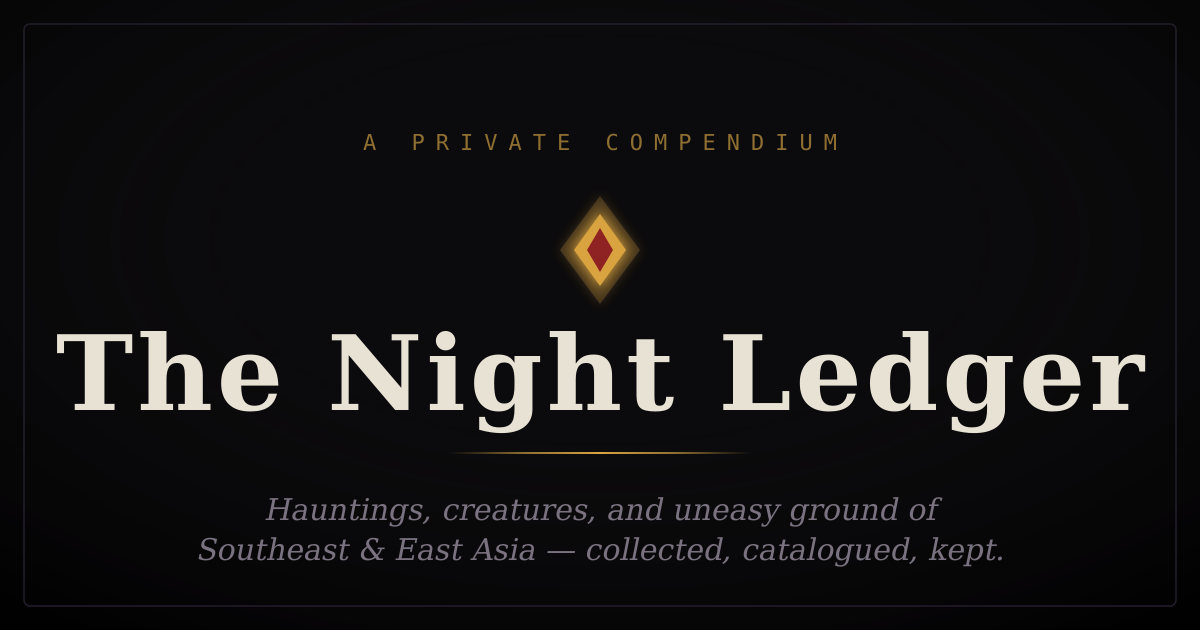
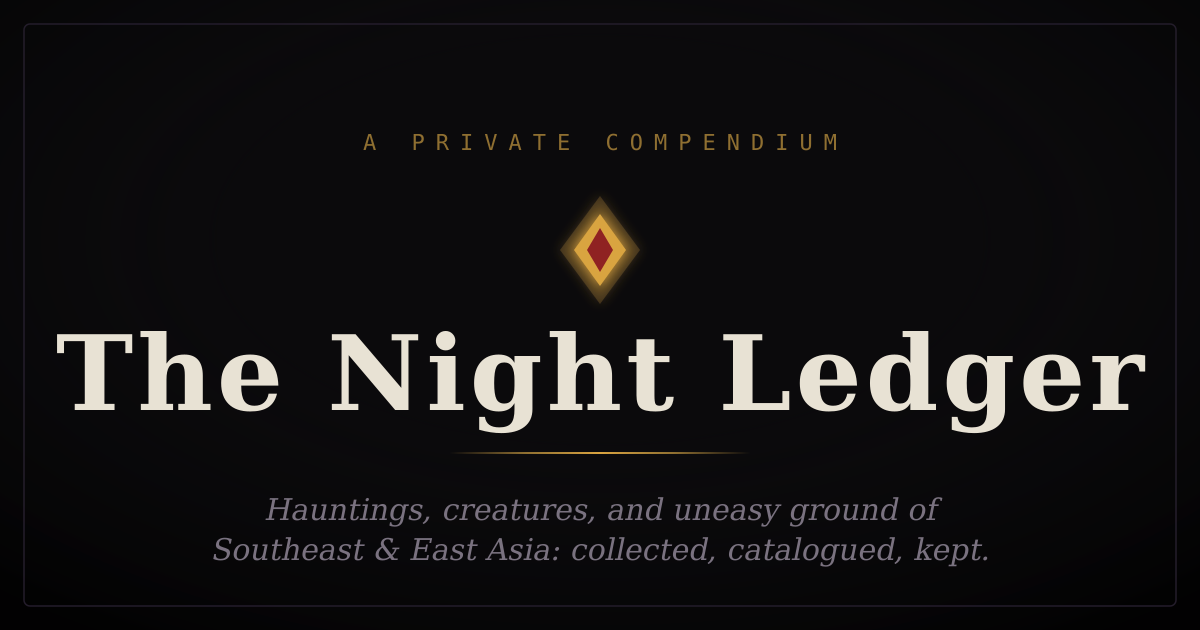
content: expand to 22 entries, add Apocrypha section, purge em-dashes
- Expand all 9 existing entries to fuller 3-paragraph retellings.
- Add 9 new real-folklore entries: Mae Nak, Krasue, Aswang, Kuchisake-onna,
  Churel, Hantu Tetek (bestiary) + Istana Woodneuk, Old Ford Factory,
  Bukit Brown (haunted Singapore).
- Add a new 'Apocrypha' section of 4 original, clearly-labelled fictional
  modern-SG legends (build.js gains optional per-section intro support).
- Remove every em-dash and en-dash from all shipped text (stories, masthead,
  legend, head metadata, OG card, nav); recast with commas/colons/semicolons.
- Expand _TEMPLATE.json; regenerate og-image.png.

Changed region(s): [[0.1542, 0.8444, 0.8325, 0.9048]]

diff --git a/build.js b/build.js
@@ -1,11 +1,11 @@
 #!/usr/bin/env node
 /*
- * The Night Ledger — static site build.
+ * The Night Ledger static site build.
  * Reads site.json + every stories/*.json and renders a self-contained dist/.
  * Zero dependencies. Run:  node build.js   (output: dist/)
  *
  * To add a story: drop one stories/<CODE>.json file and push.
- * The GitHub Action rebuilds and deploys — no manual regenerate.
+ * The GitHub Action rebuilds and deploys; no manual regenerate.
  * The entry markup pattern is owned here so content stays a pure-data drop-in.
  */
 'use strict';
@@ -21,7 +21,7 @@ const site = JSON.parse(fs.readFileSync(path.join(ROOT, 'site.json'), 'utf8'));
 let template = fs.readFileSync(path.join(ROOT, 'src', 'template.html'), 'utf8');
 
 // --- load the library of contained stories ---------------------------------
-// Files starting with "_" are scratch/template files — never rendered.
+// Files starting with "_" are scratch/template files, never rendered.
 const storyFiles = fs.readdirSync(STORIES_DIR).filter((f) => f.endsWith('.json') && !f.startsWith('_'));
 const stories = storyFiles.map((f) => {
   try {
@@ -103,7 +103,7 @@ for (const sec of site.sections) {
   </div>
   <div class="section-rule"></div>
 
-${cards}
+${sec.intro ? `  <p style="color:var(--smoke);font-size:15px;margin-top:-8px;">${esc(sec.intro)}</p>\n\n` : ''}${cards}
 
   <p><a class="to-top" href="#top">↑ Back to the index</a></p>
 
@@ -121,7 +121,7 @@ sectionsHtml +=
     <h2>To Be Collected</h2>
   </div>
   <div class="section-rule"></div>
-  <p style="color:var(--smoke);font-size:15px;margin-top:-8px;">Reserved codes for entries still to be written — first-hand accounts especially welcome.</p>
+  <p style="color:var(--smoke);font-size:15px;margin-top:-8px;">Reserved codes for entries still to be written; first-hand accounts especially welcome.</p>
   <ul class="stub-list">
 ${stubs}
   </ul>
@@ -147,7 +147,7 @@ ${items}
 indexHtml +=
 `    <p class="index-sec">★ To Be Collected</p>
     <ul>
-      <li><span class="ix-code">—</span> <a href="#sec-to-be-collected">Reserved codes (${(site.toCollect || []).length})</a></li>
+      <li><span class="ix-code">★</span> <a href="#sec-to-be-collected">Reserved codes (${(site.toCollect || []).length})</a></li>
     </ul>`;
 
 // --- fill the template -----------------------------------------------------
@@ -183,4 +183,4 @@ for (const asset of ['favicon.svg', 'og-image.png']) {
 fs.writeFileSync(path.join(DIST, '.nojekyll'), '');
 
 const total = stories.length;
-console.log(`Built dist/ — ${total} stories across ${site.sections.length} sections, ${(site.toCollect || []).length} reserved codes.`);
+console.log(`Built dist/ with ${total} stories across ${site.sections.length} sections, ${(site.toCollect || []).length} reserved codes.`);

diff --git a/src/template.html b/src/template.html
@@ -4,7 +4,7 @@
 <meta charset="UTF-8">
 <meta name="viewport" content="width=device-width, initial-scale=1.0">
 <title>The Night Ledger</title>
-<meta name="description" content="A private compendium of Southeast & East Asian horror folklore and Singapore haunted-place legends — creatures, hauntings, and uneasy ground, collected and catalogued.">
+<meta name="description" content="A private compendium of Southeast & East Asian horror folklore and Singapore haunted-place legends: creatures, hauntings, and uneasy ground, collected and catalogued.">
 <meta name="theme-color" content="#0b0a0c">
 <meta name="color-scheme" content="dark">
 <link rel="canonical" href="https://alvinhadisumarlin-prog.github.io/night-ledger/">
@@ -14,7 +14,7 @@
 <meta property="og:type" content="website">
 <meta property="og:site_name" content="The Night Ledger">
 <meta property="og:title" content="The Night Ledger">
-<meta property="og:description" content="Hauntings, creatures, and uneasy ground of Southeast & East Asia — collected, catalogued, kept.">
+<meta property="og:description" content="Hauntings, creatures, and uneasy ground of Southeast & East Asia: collected, catalogued, kept.">
 <meta property="og:url" content="https://alvinhadisumarlin-prog.github.io/night-ledger/">
 <meta property="og:image" content="https://alvinhadisumarlin-prog.github.io/night-ledger/og-image.png">
 <meta property="og:image:width" content="1200">
@@ -23,7 +23,7 @@
 <!-- Twitter -->
 <meta name="twitter:card" content="summary_large_image">
 <meta name="twitter:title" content="The Night Ledger">
-<meta name="twitter:description" content="Hauntings, creatures, and uneasy ground of Southeast & East Asia — collected, catalogued, kept.">
+<meta name="twitter:description" content="Hauntings, creatures, and uneasy ground of Southeast & East Asia: collected, catalogued, kept.">
 <meta name="twitter:image" content="https://alvinhadisumarlin-prog.github.io/night-ledger/og-image.png">
 
 <style>
@@ -127,7 +127,7 @@
     margin:16px auto 0;
     max-width:42ch;
   }
-  /* the burning ember rule — signature element */
+  /* the burning ember rule, signature element */
   .ember{
     width:min(220px,60%);
     height:2px;
@@ -406,8 +406,8 @@
   <div class="legend">
     <h2>How the ledger is kept</h2>
     <p>Every entry carries a <code>catalogue code</code> by origin: <code>MY</code> Malay/Nusantara · <code>CN</code> Chinese · <code>SG</code> Singapore site · <code>TH</code> Thai · <code>PH</code> Filipino · <code>JP</code> Japanese · <code>IN</code> South Asian.</p>
-    <p>Tags read in four bands — <strong style="color:var(--joss)">origin</strong>, <strong style="color:var(--smoke)">type</strong>, <strong style="color:#c8bfb1">region</strong>, and a <strong style="color:var(--oxblood-bright)">dread</strong> rating in diamonds (◆ of five).</p>
-    <p>Each retelling is followed where useful by a <strong style="color:var(--oxblood-bright)">Keeper's note</strong> — variants, wards against the thing, and where the tale is told.</p>
+    <p>Tags read in four bands: <strong style="color:var(--joss)">origin</strong>, <strong style="color:var(--smoke)">type</strong>, <strong style="color:#c8bfb1">region</strong>, and a <strong style="color:var(--oxblood-bright)">dread</strong> rating in diamonds (◆ of five).</p>
+    <p>Each retelling is followed where useful by a <strong style="color:var(--oxblood-bright)">Keeper's note</strong>: variants, wards against the thing, and where the tale is told.</p>
   </div>
 
   <nav class="index" aria-label="Index of entries">